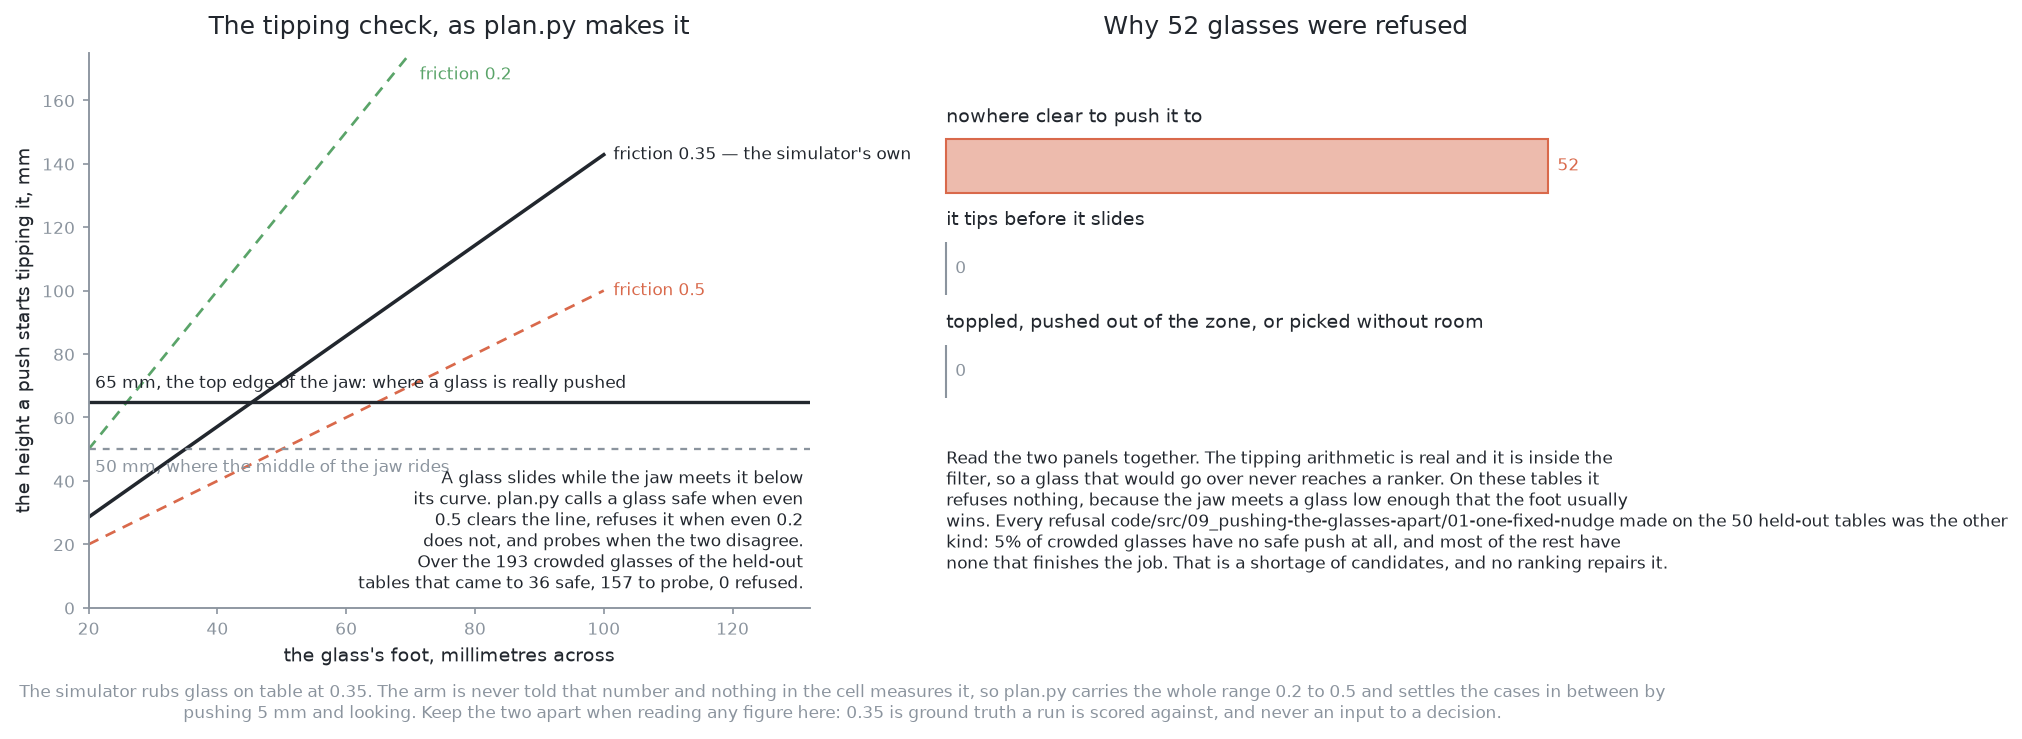
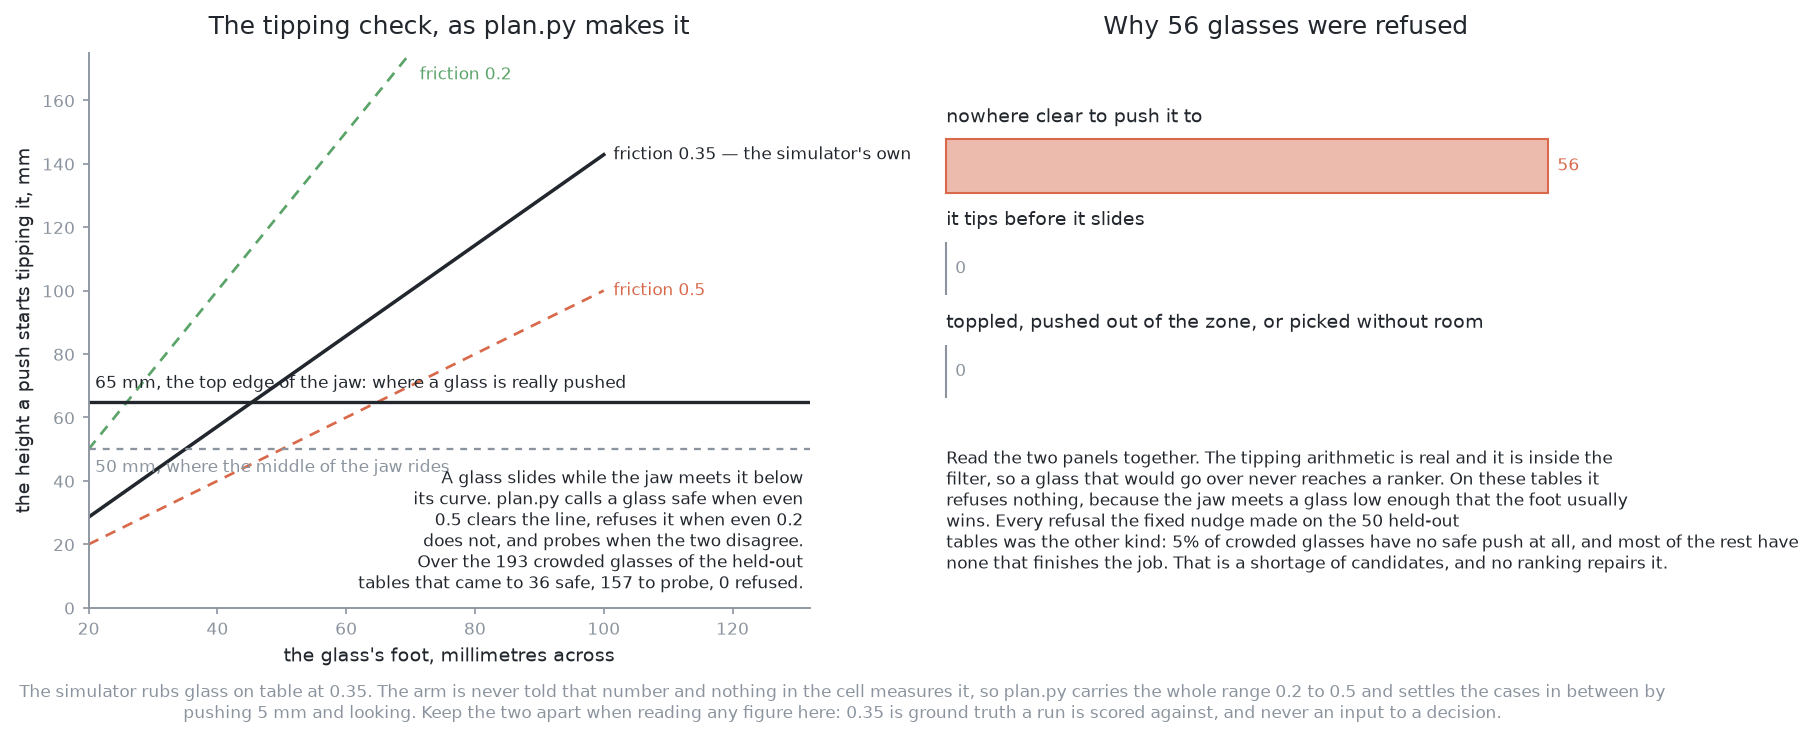
Repair two sentences a path had been substituted into, and redraw the stale counts
Two pictures carried a sentence with a source path sitting where the subject
should be: "Every refusal code/src/09_pushing-the-glasses-apart/01-one-fixed-nudge
made on the 50 held-out tables was the other kind", and the same shape in the
world-model chapter. Both read as though a folder rename had been replayed
blindly through drawn prose. They say "the fixed nudge" and "this solution" now.

The refusals picture also still drew 52 refusals where the results file says 56,
which is the stale scorecard this generator was reading from a copy of its own.
It reads the file now, so both panels are redrawn and agree with it.

Paths in comments are left alone. A comment naming the file a constant came from
is the point; a path in a sentence meant for a reader is a bug.

diff --git a/docs/diagrams/pushing-the-glasses-apart/make_06_images.py b/docs/diagrams/pushing-the-glasses-apart/make_06_images.py
@@ -494,8 +494,8 @@ def picture_the_refusals() -> None:
                   f"Read the two panels together. The tipping arithmetic is real and it is inside the\n"
                   f"filter, so a glass that would go over never reaches a ranker. On these tables it\n"
                   f"refuses nothing, because the jaw meets a glass low enough that the foot usually\n"
-                  f"wins. Every refusal code/src/09_pushing-the-glasses-apart/01-one-fixed-nudge made on the {SWEEP['tables']} held-out "
-                  f"tables was the other\nkind: {SWEEP['safe_none_pct']:.0f}% of crowded glasses have "
+                  f"wins. Every refusal the fixed nudge made on the {SWEEP['tables']} held-out\n"
+                  f"tables was the other kind: {SWEEP['safe_none_pct']:.0f}% of crowded glasses have "
                   f"no safe push at all, and most of the rest have\nnone that finishes the job. That "
                   f"is a shortage of candidates, and no ranking repairs it.",
                   fontsize=NOTE_SIZE, color=INK, ha="left", va="top")

diff --git a/docs/diagrams/pushing-the-glasses-apart/make_10_images.py b/docs/diagrams/pushing-the-glasses-apart/make_10_images.py
@@ -896,7 +896,7 @@ def picture_the_data(crowded: list[dict]) -> None:
     frame_on(real, crowded, pad=90.0)
     under(figure, 1, 2,
           f"a run stops as soon as every glass has room, so it makes as few pushes as it can.\n"
-          f"Over the {scenes} held-out tables code/src/09_pushing-the-glasses-apart/04-a-world-model was scored on, {run_pushes} pushes "
+          f"Over the {scenes} held-out tables this solution was scored on, {run_pushes} pushes "
           f"were made\nin all: {per_run:.2f} a table, and each one costs a survey and a plan")
 
     core_minutes = rows * BENCH_PUSH_MS / 1000.0 / 60.0
